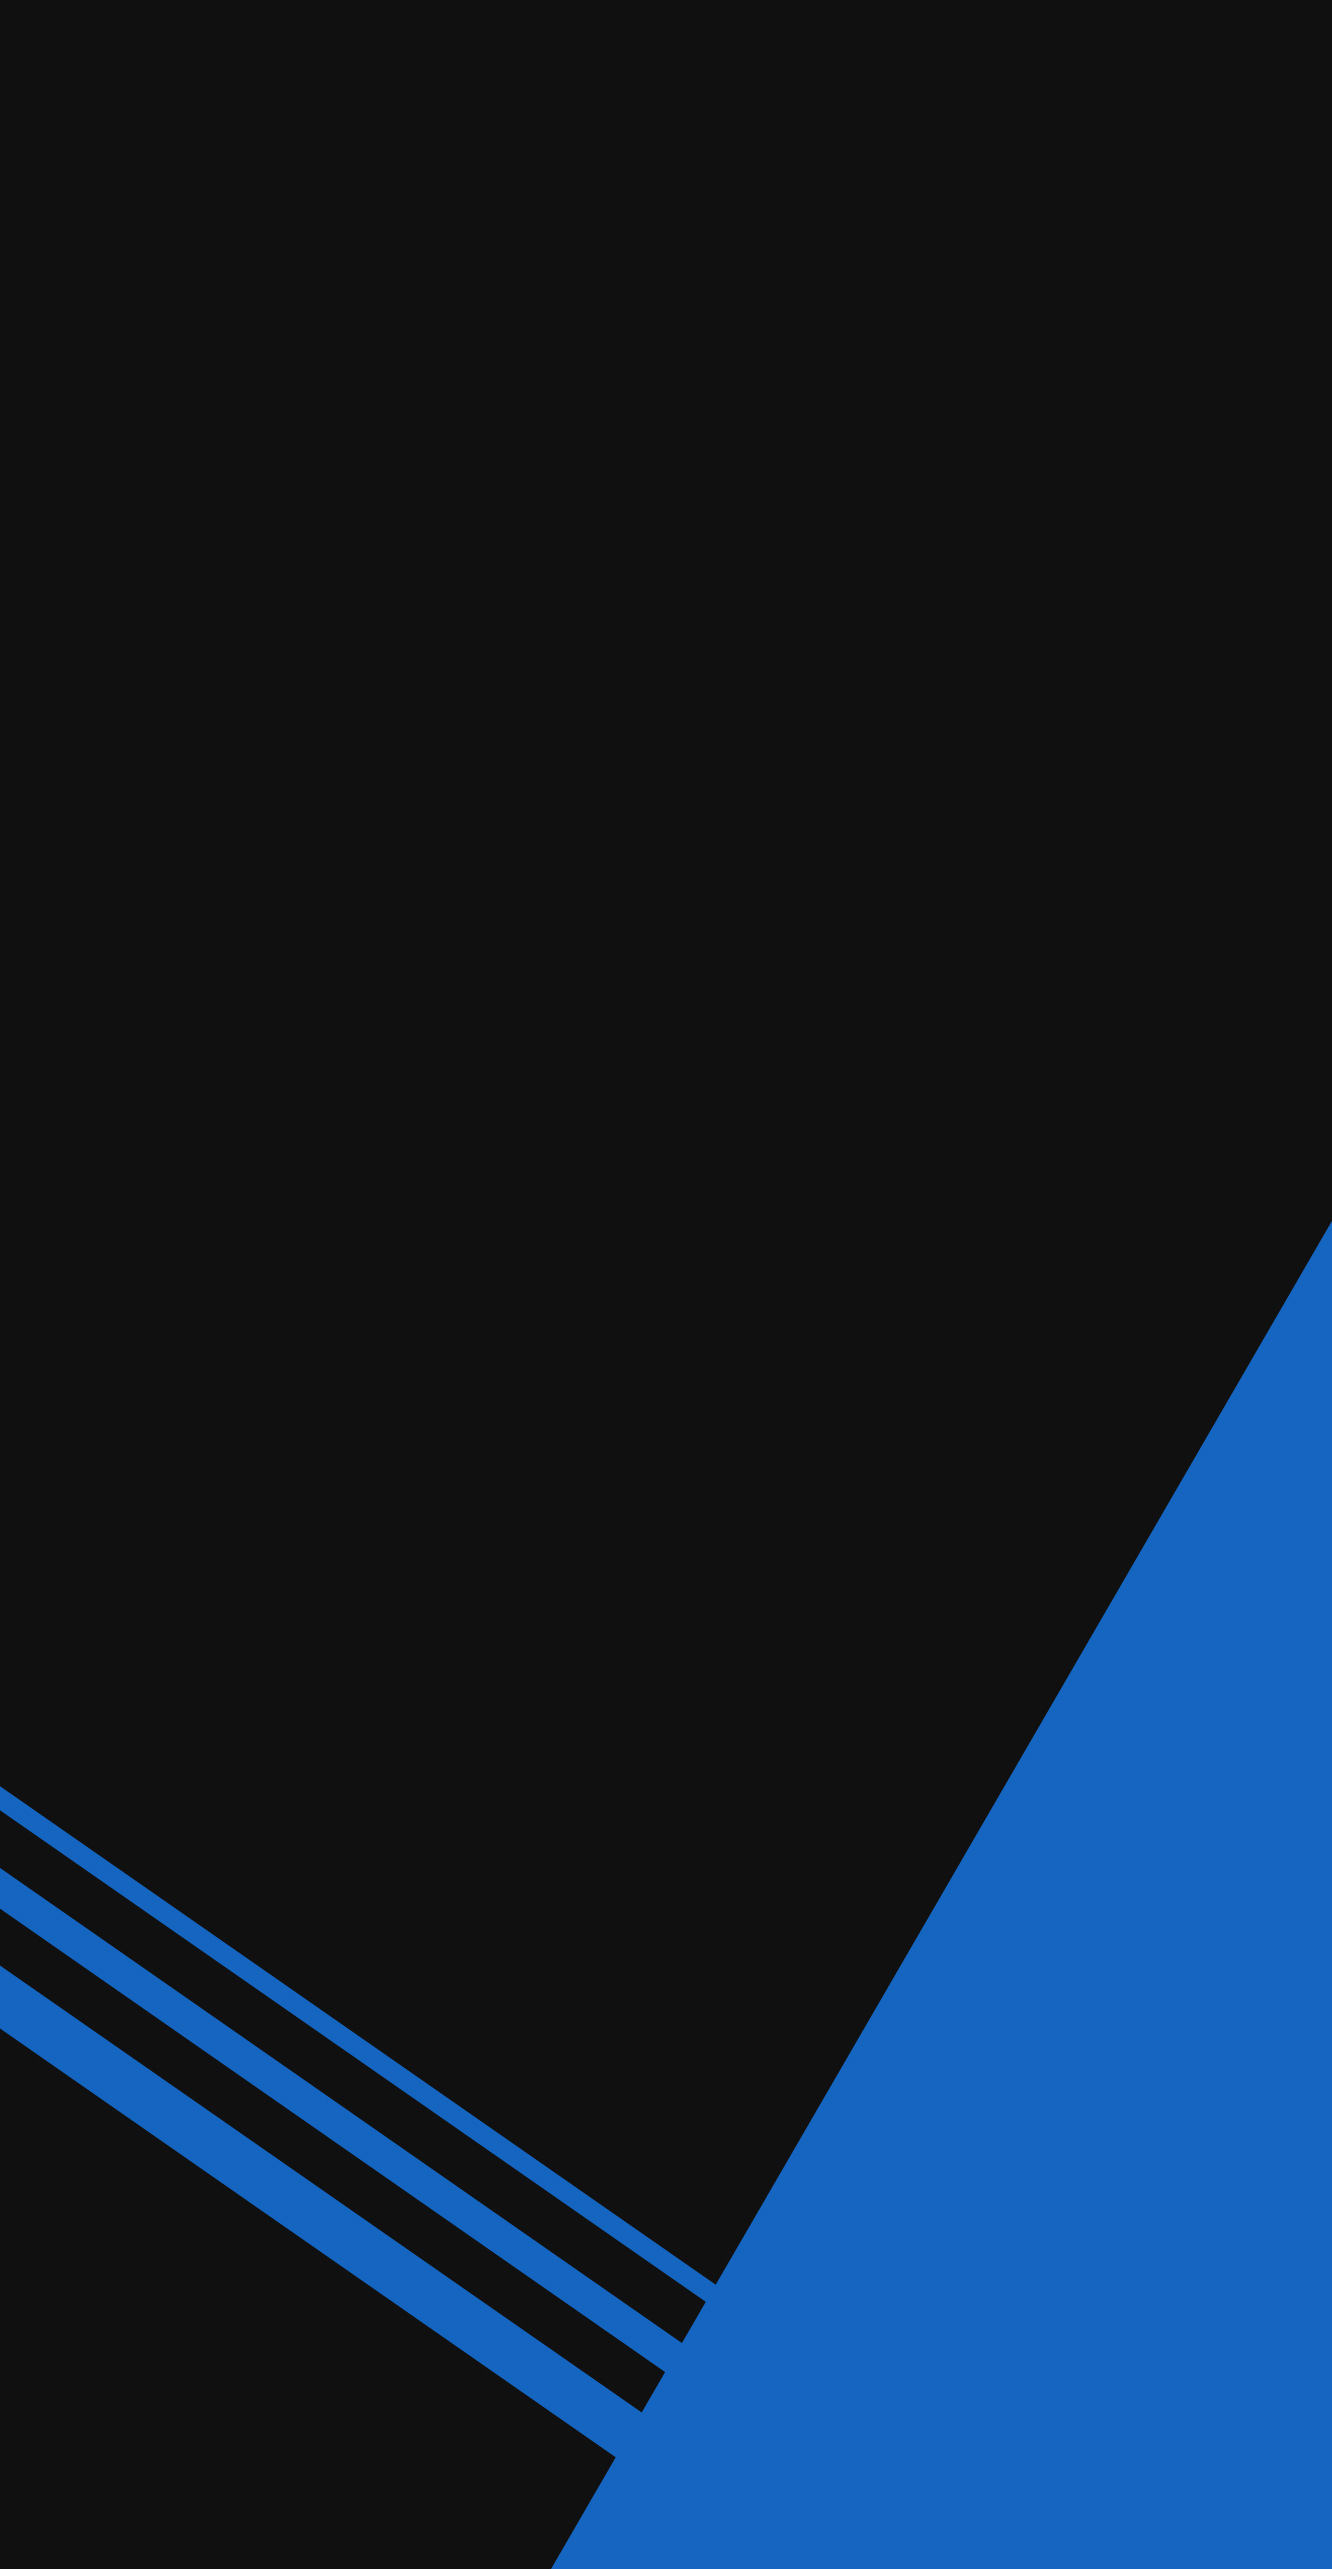
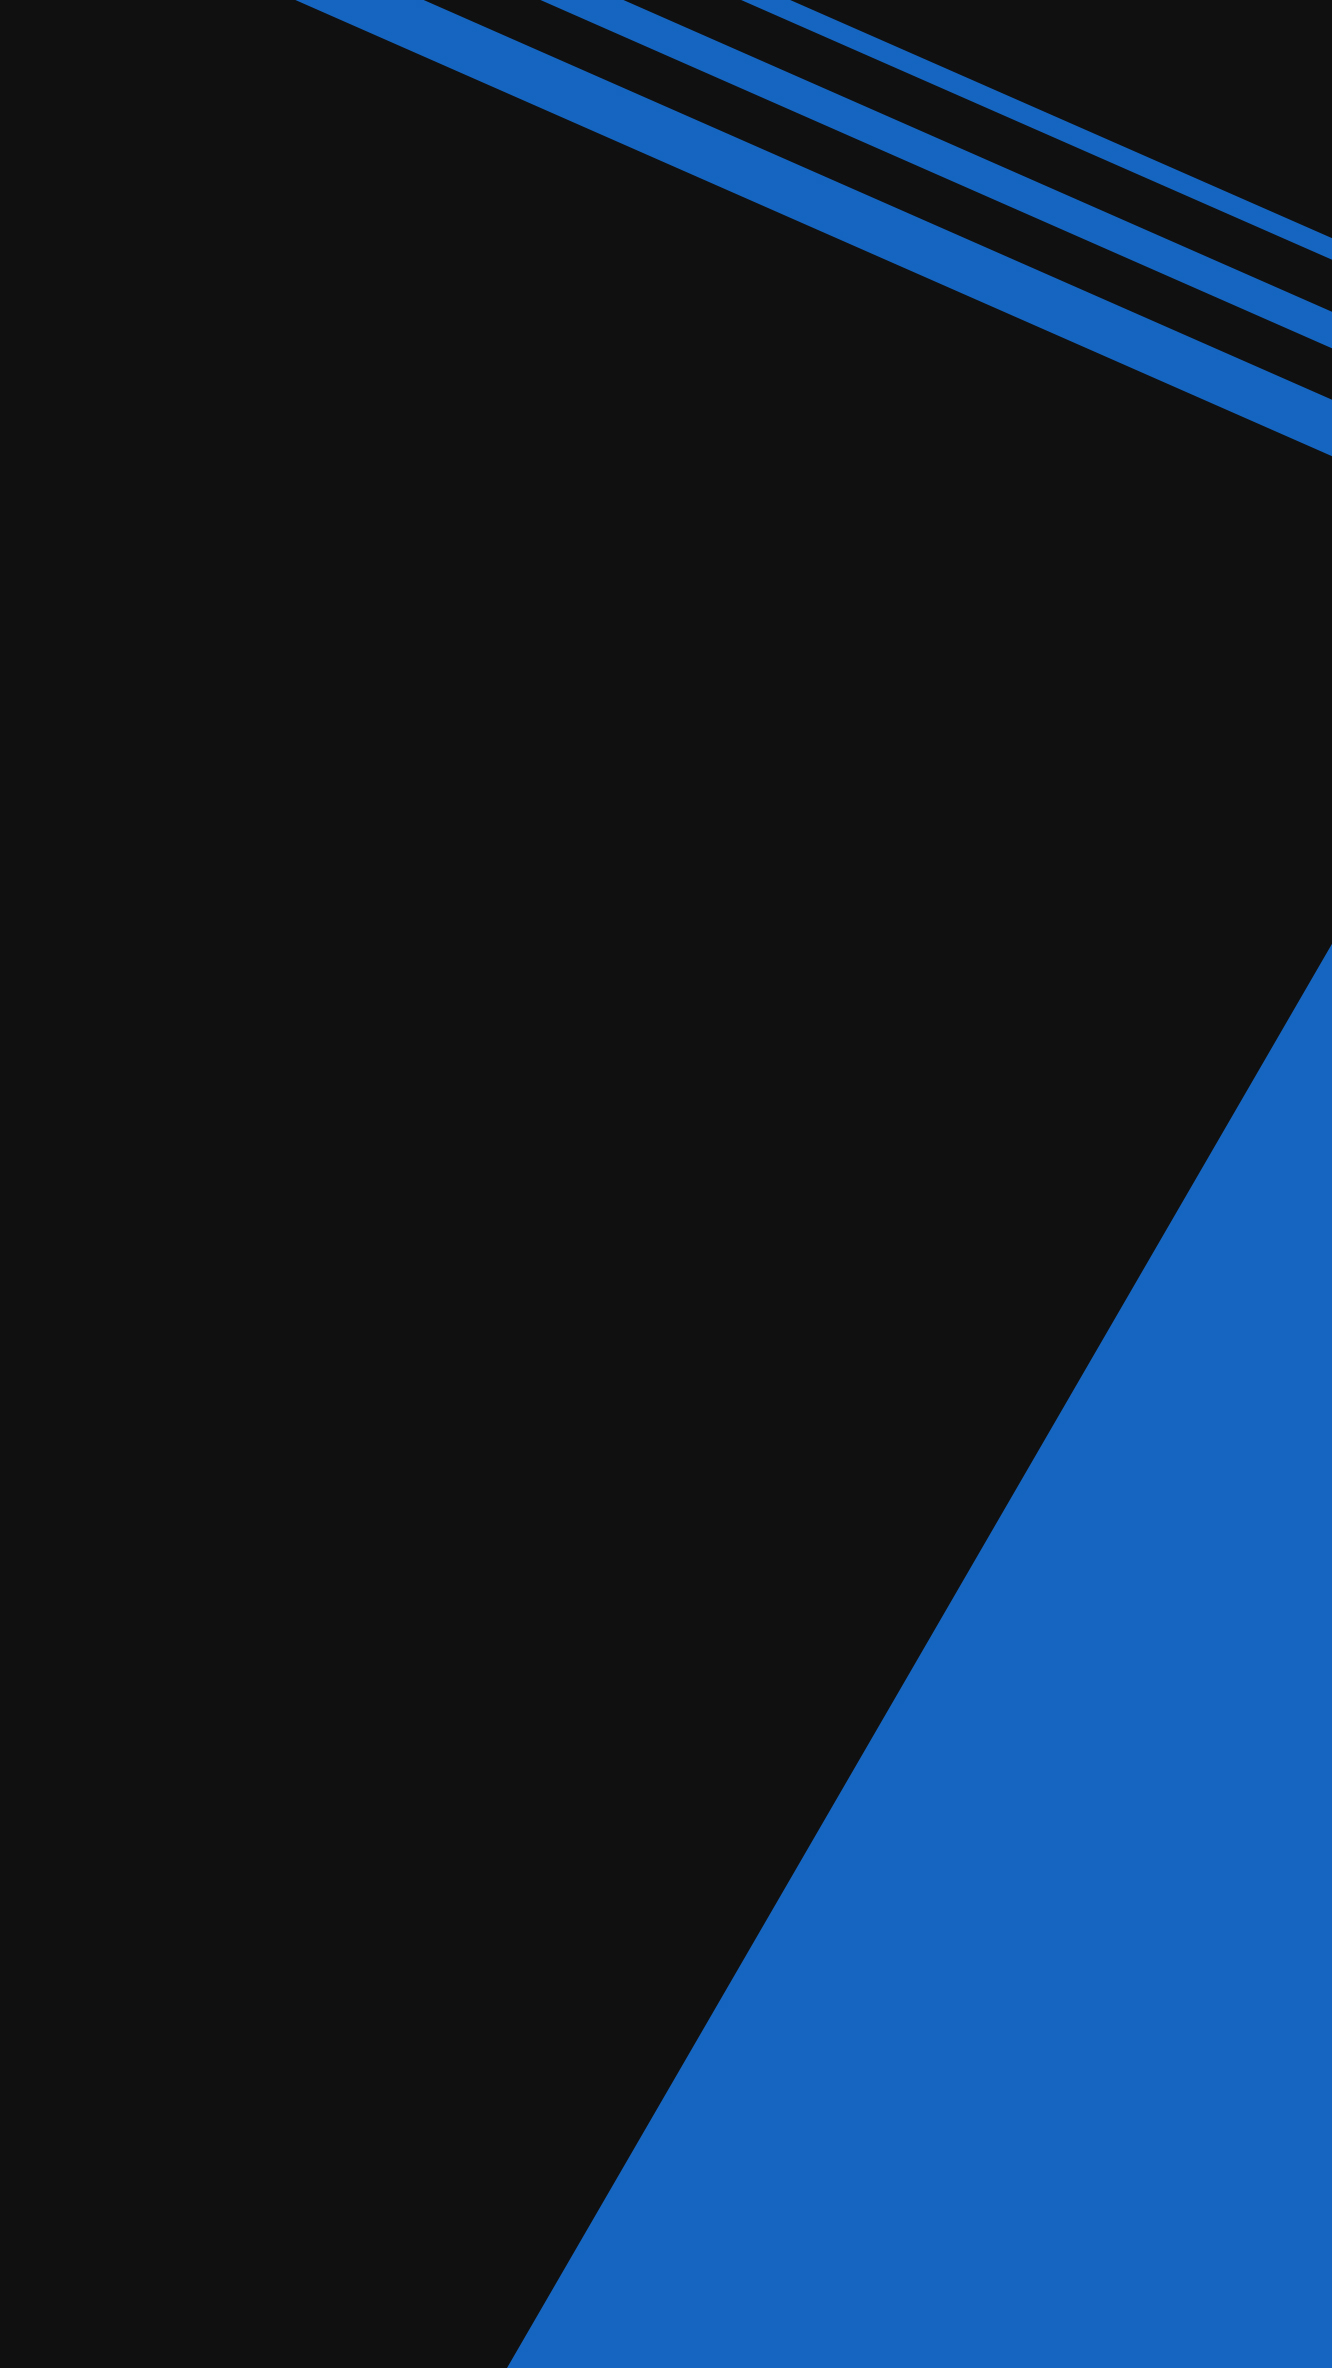
added mobile tagline

Changed region(s): [[0.0, 0.4062, 1.0, 1.0], [0.2462, 0.0, 1.0, 0.2188]]

diff --git a/public/css/style.css b/public/css/style.css
@@ -546,14 +546,56 @@ contact.html
   /* W3C, IE10+, FF16+, Chrome26+, Opera12+, Safari7+ */
 }
 
+.mobile {
+  display: none;
+}
 
 @media only screen and (max-width: 600px) {
   body {
     background: url(../images/bg-mobile.jpg) no-repeat center center fixed;
   }
 
-  .icon-bar {
+  .desktop {
+    display: none;
+  }
+
+  .mobile {
+    display: block;
+  }
+
+  .mobile h4 {
+    font-size: 1.7em;
+  }
+
+  .hvrbox .row {
+    margin-top: 0;
+  }
+
+  .main-title h5 {
+    font-size: 1.5em;
+  }
+
+  .hvrbox h4 {
+    font-size: 1.2em;
+    margin: 0.7em 0 0 0;
+  }
+
+  .hvrbox p {
+    margin: 0.3em 0 .2em 0;
+  }
+
+  .hvrbox .chip {
+    margin: 0.5em 0.2em 0 0;
+  }
+
+  .navbar-fixed {
+    position: relative;
+    height: 56px;
     z-index: 1;
+  }
+
+  .icon-bar {
+    z-index: 2;
     position: fixed;
     right: 5%;
     top: 2%;

diff --git a/public/home.html b/public/home.html
@@ -47,8 +47,12 @@
                 Alex<span class="thin"> Schaaf</span>
             </h1>
         </div>
-        <div class="animated fadeIn slow tagline">
+        <div class="desktop animated fadeIn slow tagline">
             <h4 class="lowercase"><span class="thin underline">Full-Stack</span> Web Developer</h4>
+        </div>
+        <div class="mobile animated fadeIn slow tagline">
+            <h4 class="lowercase"><span class="thin underline">Full-Stack</span><br><span class="second-line"> Web
+                    Developer</span></h4>
         </div>
     </div>
 
